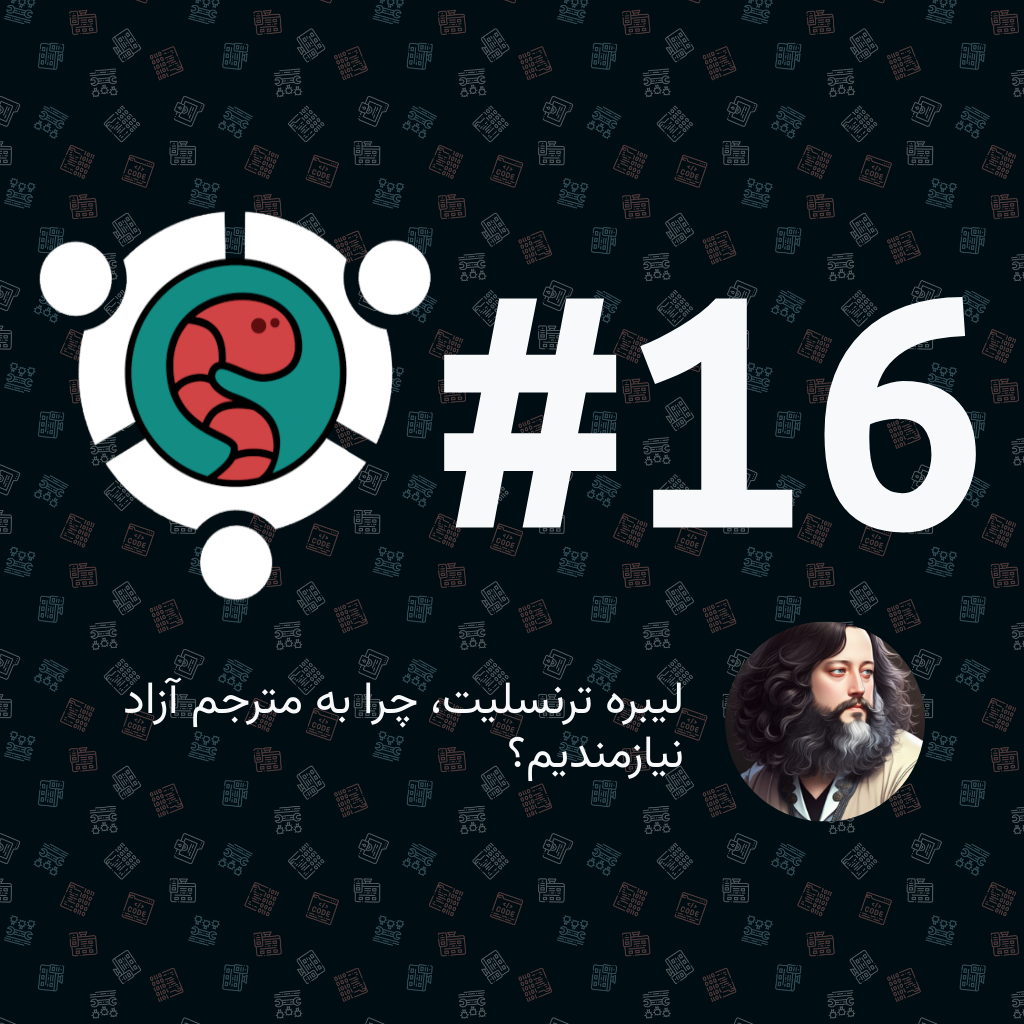
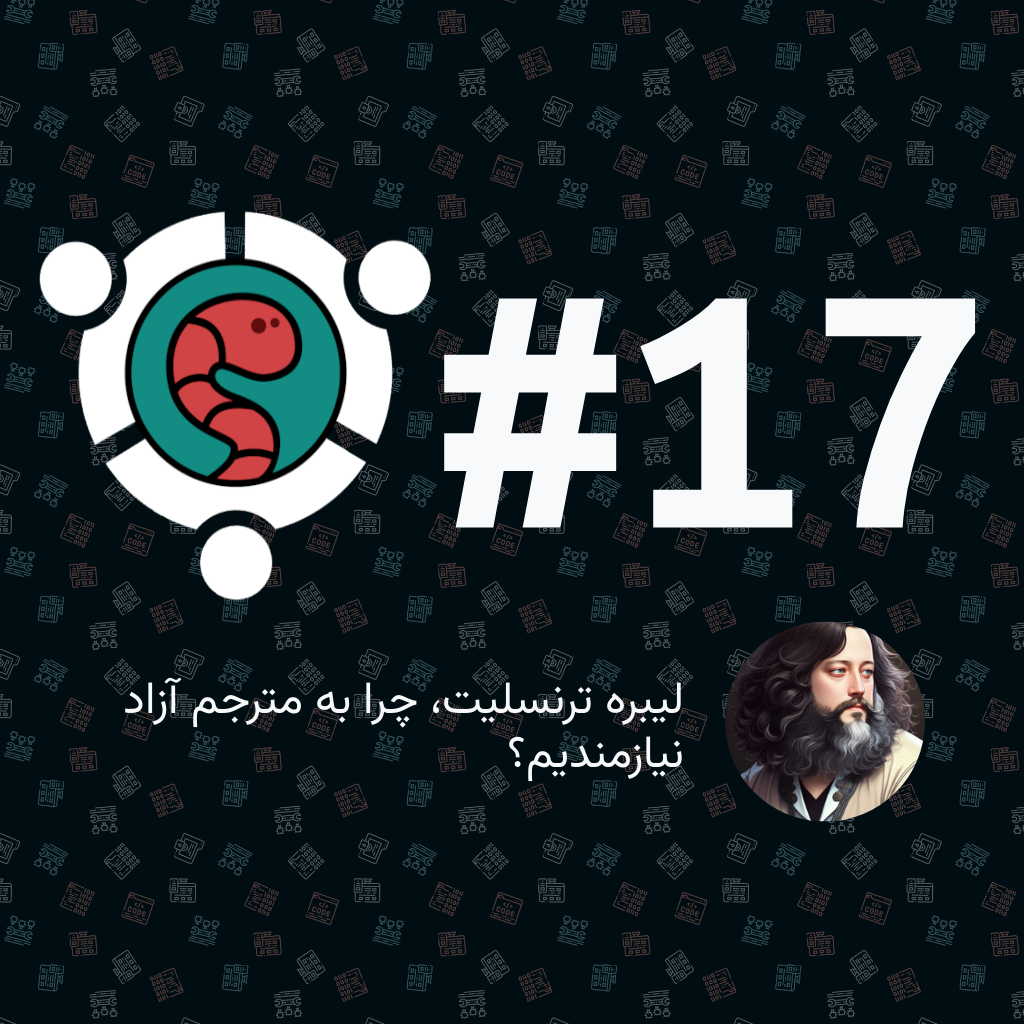
deploy: d295deb0e2957b6c9fc1d451f871c11feb5f87e6

Changed region(s): [[0.7812, 0.2812, 0.9688, 0.5312]]

diff --git a/index.html b/index.html
@@ -4,7 +4,7 @@
 <head>
     <meta charset="UTF-8">
     <meta name="viewport" content="width=device-width, initial-scale=1.0">
-    <meta property="og:title" content="#16 - دورهمی کرمهای کامپیوتر" />
+    <meta property="og:title" content="#17 - دورهمی کرمهای کامپیوتر" />
     <meta name="og:description" content="دورهمی های کرمهای کامپیوتر - جمعه هر هفته ساعت شش
  این هفته با ارائه «جعفر فرقانلوژ» درباره لیبره ترنسلیت، چرا به مترجم آزاد نیازمندیم؟">
     <meta property="og:url" content="https://meet.pcworms.ir" />
@@ -20,7 +20,7 @@
         rel="stylesheet">
     <script>
         // Set the date we're counting down to
-        var countDownDate = new Date("Feb 02, 2024 18:00:00").getTime();
+        var countDownDate = new Date("Feb 09, 2024 18:00:00").getTime();
         var finishDate = countDownDate + (1.5 * 3600 * 1000);
 
         // Update the count down every 1 second
@@ -84,7 +84,7 @@
     <div class="container-fluid">
         <div class="row mt-2 text-center">
             <div class="col d-flex  align-items-center justify-content-center">
-                <span class="big-text d-inline-block">#16</span>
+                <span class="big-text d-inline-block">#17</span>
                 <img class="logo" src="./assets/meeting-logo.png" alt="">
             </div>
         </div>

diff --git a/post.html b/post.html
@@ -4,7 +4,7 @@
 <head>
     <meta charset="UTF-8">
     <meta name="viewport" content="width=device-width, initial-scale=1.0">
-    <meta property="og:title" content="#16 - دورهمی کرمهای کامپیوتر" />
+    <meta property="og:title" content="#17 - دورهمی کرمهای کامپیوتر" />
     <meta name="og:description" content="دورهمی های کرمهای کامپیوتر - جمعه هر هفته ساعت شش
  این هفته با ارائه «جعفر فرقانلوژ» درباره لیبره ترنسلیت، چرا به مترجم آزاد نیازمندیم؟">
     <meta property="og:url" content="https://meet.pcworms.ir" />
@@ -20,7 +20,7 @@
         rel="stylesheet">
     <script>
         // Set the date we're counting down to
-        var countDownDate = new Date("Feb 02, 2024 18:00:00").getTime();
+        var countDownDate = new Date("Feb 09, 2024 18:00:00").getTime();
         var finishDate = countDownDate + (1.5 * 3600 * 1000);
 
         // Update the count down every 1 second
@@ -77,7 +77,7 @@
     <div class="container-fluid">
         <div class="row mt-2 text-center">
             <div class="col d-flex  align-items-center justify-content-center">
-                <span class="big-text d-inline-block">#16</span>
+                <span class="big-text d-inline-block">#17</span>
                 <img class="logo" src="./assets/meeting-logo.png" alt="">
             </div>
         </div>

diff --git a/preview.html b/preview.html
@@ -21,7 +21,7 @@
         <div class="row mt-2 text-center">
             <div class="col d-flex  align-items-center justify-content-center">
                 <img class="logo" src="./assets/meeting-logo.png" alt="">
-                <span class="big-text d-inline-block">#16</span>
+                <span class="big-text d-inline-block">#17</span>
             </div>
         </div>
         <div class="row justify-content-center">
